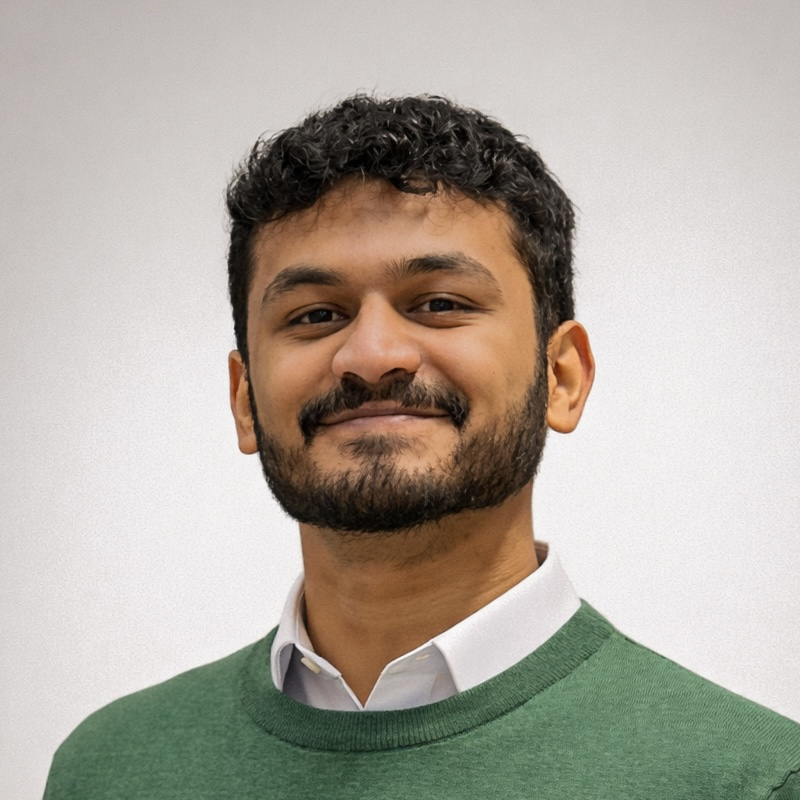
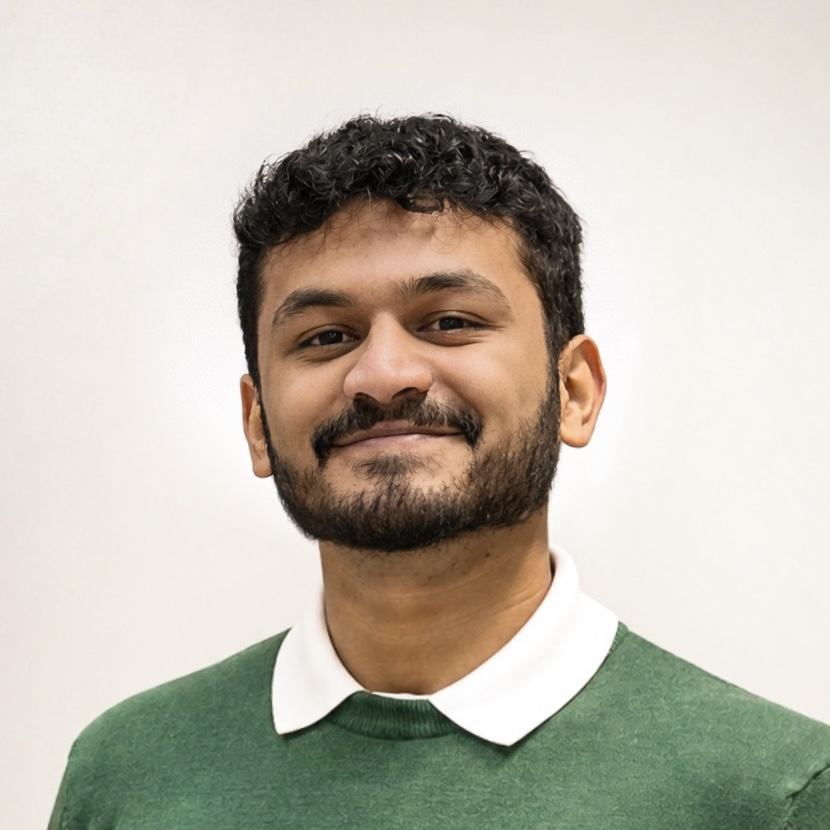
updates

diff --git a/ASME-details.html b/ASME-details.html
@@ -173,7 +173,7 @@
 
     <div class="container">
       <div class="copyright text-center ">
-        <p>© <span>2025</span> <strong class="px-1 sitename">Ishaan Salian</strong> <span>All Rights Reserved</span></p>
+        <p>© <span>2026</span> <strong class="px-1 sitename">Ishaan Salian</strong> <span>All Rights Reserved</span></p>
       </div>
       <div class="credits">
         <!-- All the links in the footer should remain intact. -->

diff --git a/DARoS-details.html b/DARoS-details.html
@@ -184,7 +184,7 @@
 
     <div class="container">
       <div class="copyright text-center ">
-        <p>© <span>2025</span> <strong class="px-1 sitename">Ishaan Salian</strong> <span>All Rights Reserved</span></p>
+        <p>© <span>2026</span> <strong class="px-1 sitename">Ishaan Salian</strong> <span>All Rights Reserved</span></p>
       </div>
       <div class="credits">
         <!-- All the links in the footer should remain intact. -->

diff --git a/Internship-details.html b/Internship-details.html
@@ -166,7 +166,7 @@
 
     <div class="container">
       <div class="copyright text-center ">
-        <p>© <span>2025</span> <strong class="px-1 sitename">Ishaan Salian</strong> <span>All Rights Reserved</span></p>
+        <p>© <span>2026</span> <strong class="px-1 sitename">Ishaan Salian</strong> <span>All Rights Reserved</span></p>
       </div>
       <div class="credits">
         <!-- All the links in the footer should remain intact. -->

diff --git a/Keyring-details.html b/Keyring-details.html
@@ -163,7 +163,7 @@
 
     <div class="container">
       <div class="copyright text-center ">
-        <p>© <span>2025</span> <strong class="px-1 sitename">Ishaan Salian</strong> <span>All Rights Reserved</span></p>
+        <p>© <span>2026</span> <strong class="px-1 sitename">Ishaan Salian</strong> <span>All Rights Reserved</span></p>
       </div>
       <div class="credits">
         <!-- All the links in the footer should remain intact. -->

diff --git a/Multi-Sensor-Fusion-details.html b/Multi-Sensor-Fusion-details.html
@@ -153,7 +153,7 @@
 
     <div class="container">
       <div class="copyright text-center ">
-        <p>© <span>2025</span> <strong class="px-1 sitename">Ishaan Salian</strong> <span>All Rights Reserved</span></p>
+        <p>© <span>2026</span> <strong class="px-1 sitename">Ishaan Salian</strong> <span>All Rights Reserved</span></p>
       </div>
       <div class="credits">
         <!-- All the links in the footer should remain intact. -->

diff --git a/SDP-details.html b/SDP-details.html
@@ -169,7 +169,7 @@
 
     <div class="container">
       <div class="copyright text-center ">
-        <p>© <span>2025</span> <strong class="px-1 sitename">Ishaan Salian</strong> <span>All Rights Reserved</span></p>
+        <p>© <span>2026</span> <strong class="px-1 sitename">Ishaan Salian</strong> <span>All Rights Reserved</span></p>
       </div>
       <div class="credits">
         <!-- All the links in the footer should remain intact. -->

diff --git a/TinyTemp-details.html b/TinyTemp-details.html
@@ -154,7 +154,7 @@
 
     <div class="container">
       <div class="copyright text-center ">
-        <p>© <span>2025</span> <strong class="px-1 sitename">Ishaan Salian</strong> <span>All Rights Reserved</span></p>
+        <p>© <span>2026</span> <strong class="px-1 sitename">Ishaan Salian</strong> <span>All Rights Reserved</span></p>
       </div>
       <div class="credits">
         <!-- All the links in the footer should remain intact. -->

diff --git a/Transit.html b/Transit.html
@@ -161,7 +161,7 @@
 
     <div class="container">
       <div class="copyright text-center ">
-        <p>© <span>2025</span> <strong class="px-1 sitename">Ishaan Salian</strong> <span>All Rights Reserved</span></p>
+        <p>© <span>2026</span> <strong class="px-1 sitename">Ishaan Salian</strong> <span>All Rights Reserved</span></p>
       </div>
       <div class="credits">
         <!-- All the links in the footer should remain intact. -->

diff --git a/TravelTime-details.html b/TravelTime-details.html
@@ -157,7 +157,7 @@
 
     <div class="container">
       <div class="copyright text-center ">
-        <p>© <span>2025</span> <strong class="px-1 sitename">Ishaan Salian</strong> <span>All Rights Reserved</span></p>
+        <p>© <span>2026</span> <strong class="px-1 sitename">Ishaan Salian</strong> <span>All Rights Reserved</span></p>
       </div>
       <div class="credits">
         <!-- All the links in the footer should remain intact. -->

diff --git a/Weather-details.html b/Weather-details.html
@@ -153,7 +153,7 @@
 
     <div class="container">
       <div class="copyright text-center ">
-        <p>© <span>2025</span> <strong class="px-1 sitename">Ishaan Salian</strong> <span>All Rights Reserved</span></p>
+        <p>© <span>2026</span> <strong class="px-1 sitename">Ishaan Salian</strong> <span>All Rights Reserved</span></p>
       </div>
       <div class="credits">
         <!-- All the links in the footer should remain intact. -->

diff --git a/index-test.html b/index-test.html
@@ -680,7 +680,7 @@
 
     <div class="container">
       <div class="copyright text-center ">
-        <p>© <span>2025</span> <strong class="px-1 sitename">Ishaan Salian</strong> <span>All Rights Reserved</span></p>
+        <p>© <span>2026</span> <strong class="px-1 sitename">Ishaan Salian</strong> <span>All Rights Reserved</span></p>
       </div>
       <div class="credits">
         <!-- All the links in the footer should remain intact. -->

diff --git a/index.html b/index.html
@@ -670,7 +670,7 @@
 
     <div class="container">
       <div class="copyright text-center ">
-        <p>© <span>2025</span> <strong class="px-1 sitename">Ishaan Salian</strong> <span>All Rights Reserved</span></p>
+        <p>© <span>2026</span> <strong class="px-1 sitename">Ishaan Salian</strong> <span>All Rights Reserved</span></p>
       </div>
       <div class="credits">
         <!-- All the links in the footer should remain intact. -->
